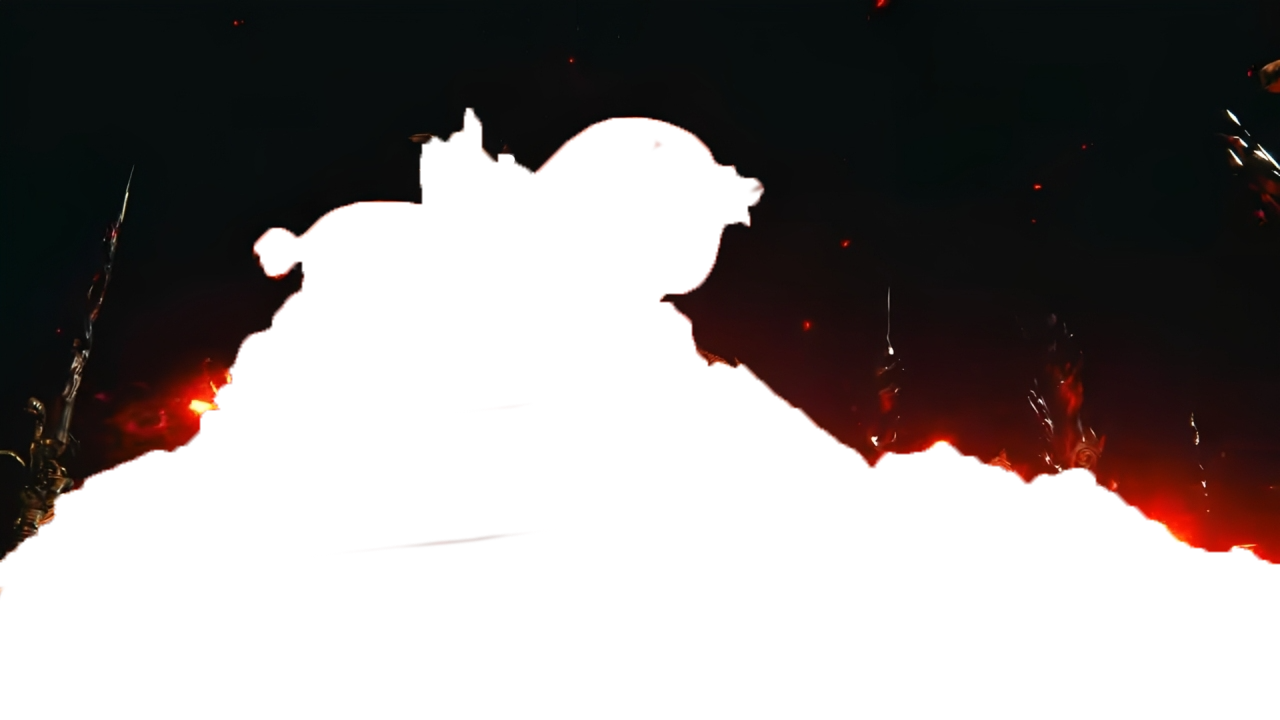
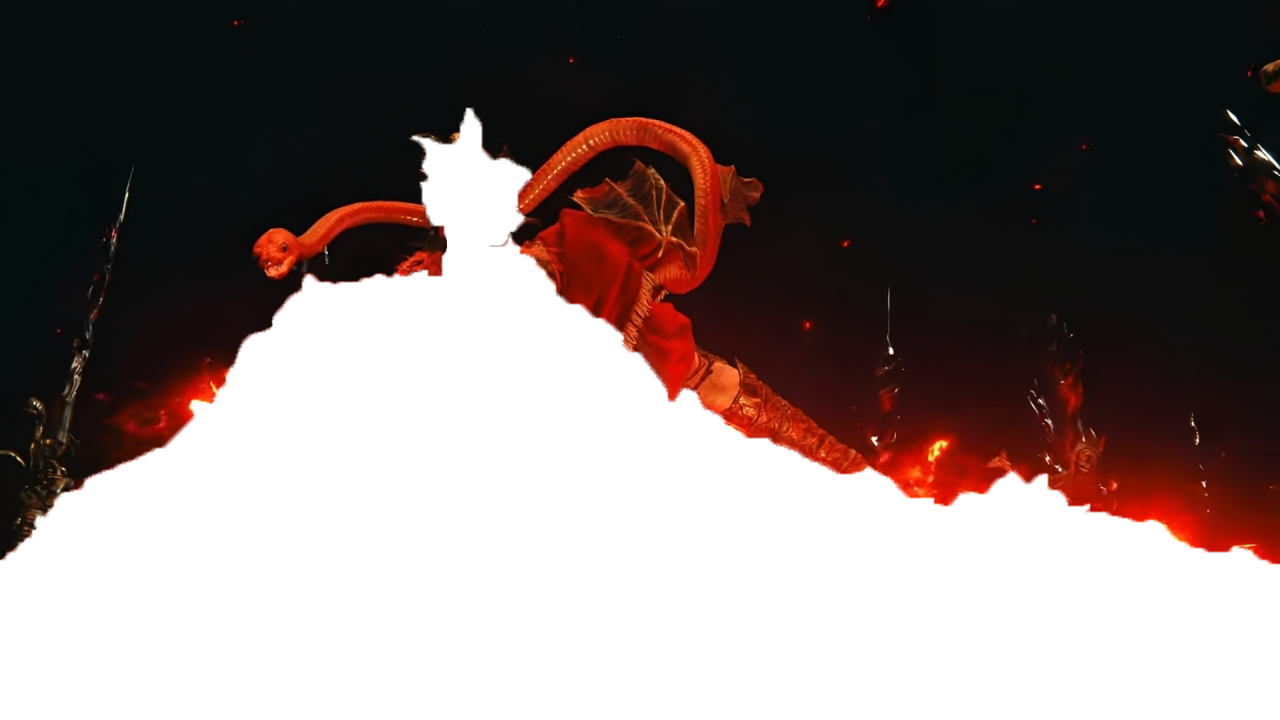
Mudança nas imagens do messmer

diff --git a/elden-ring-app/src/components/HeroMessmer.tsx b/elden-ring-app/src/components/HeroMessmer.tsx
@@ -99,17 +99,17 @@ export default function HeroMessmer() {
         className="relative h-[100vh] max-h-[500px] w-full overflow-hidden"
         style={{ cursor: "none" }}
       >
-        {/* Fundo — movimento mais lento */}
+        
         {/* <img
-        src={MessmerComFundo}
+        src={MessmerFundo}
         alt="Fundo Messmer"
-        className="absolute inset-0 w-full h-full opacity-30 object-contain will-change-transform"
+        className="absolute inset-0 w-full h-full object-contain will-change-transform"
         style={{
-          ...layer(0.05, 4),
-          opacity: mounted ? 0.3 : 0,
+          ...layer(0.20, 4),
+          opacity: mounted ? 1 : 0,
           transition: "opacity 1.2s ease, transform 0.12s ease-out",
         }}
-      /> */}
+        /> */}
 
         <div className="px-6 pt-10 text-center">
           <h1 className="messmer-text text-red-rune whitespace-pre-line text-center text-3xl md:text-4xl lg:text-8xl">
@@ -120,13 +120,16 @@ export default function HeroMessmer() {
           </h2>
         </div>
 
+        {/* Fundo — movimento mais lento */}
+        
+
         {/* Corpo — velocidade média */}
         <img
           src={MessmerCorpo}
           alt="Corpo Messmer"
           className="absolute inset-0 w-full h-full object-contain will-change-transform scale-95"
           style={{
-            ...layer(0.10, 10),
+            ...layer(0.20, 10),
             opacity: mounted ? 1 : 0,
             transition: "opacity 1.6s ease 0.3s, transform 0.12s ease-out",
           }}
@@ -138,7 +141,7 @@ export default function HeroMessmer() {
           alt="Fogo Messmer"
           className="absolute inset-0 w-full h-full object-contain will-change-transform scale-95"
           style={{
-            ...layer(0.15, 18),
+            ...layer(0.25, 18),
             opacity: mounted ? 1 : 0,
             transition: "opacity 2s ease 0.6s, transform 0.12s ease-out",
           }}
